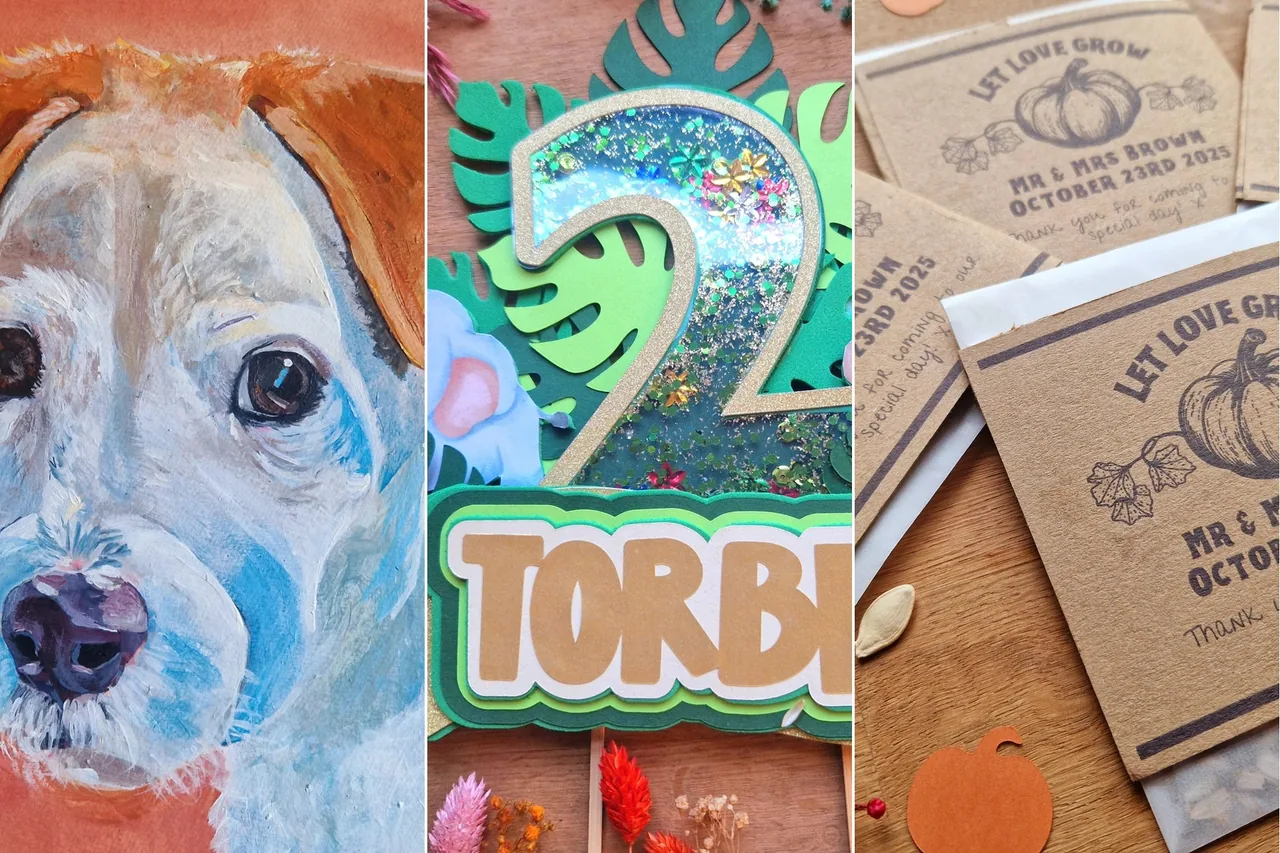
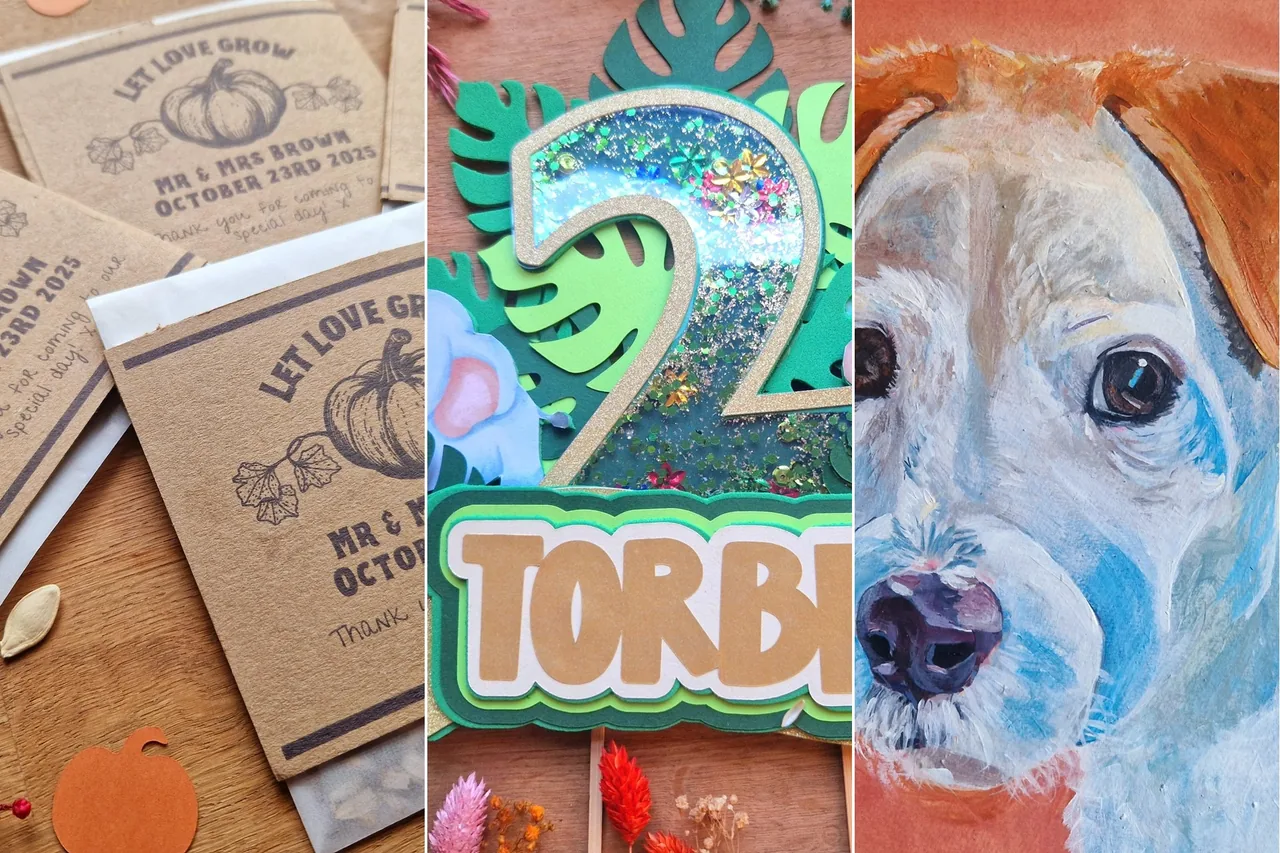
Publish preview: hollysellorsart

diff --git a/hollysellorsart/index.html b/hollysellorsart/index.html
@@ -48,7 +48,7 @@
 
   <section class="hero">
     <img class="hero-img" src="img/hero.webp" width="1280" height="853"
-         alt="A hand-painted terrier portrait, a jungle theme cake topper and plantable pumpkin seed wedding favours" fetchpriority="high">
+         alt="Plantable pumpkin seed wedding favours, a jungle theme cake topper and a hand-painted terrier portrait" fetchpriority="high">
     <div class="hero-overlay" aria-hidden="true"></div>
     <div class="container hero-content">
       <p class="eyebrow eyebrow--light">Pet portrait artist &middot; Worthing, England</p>
